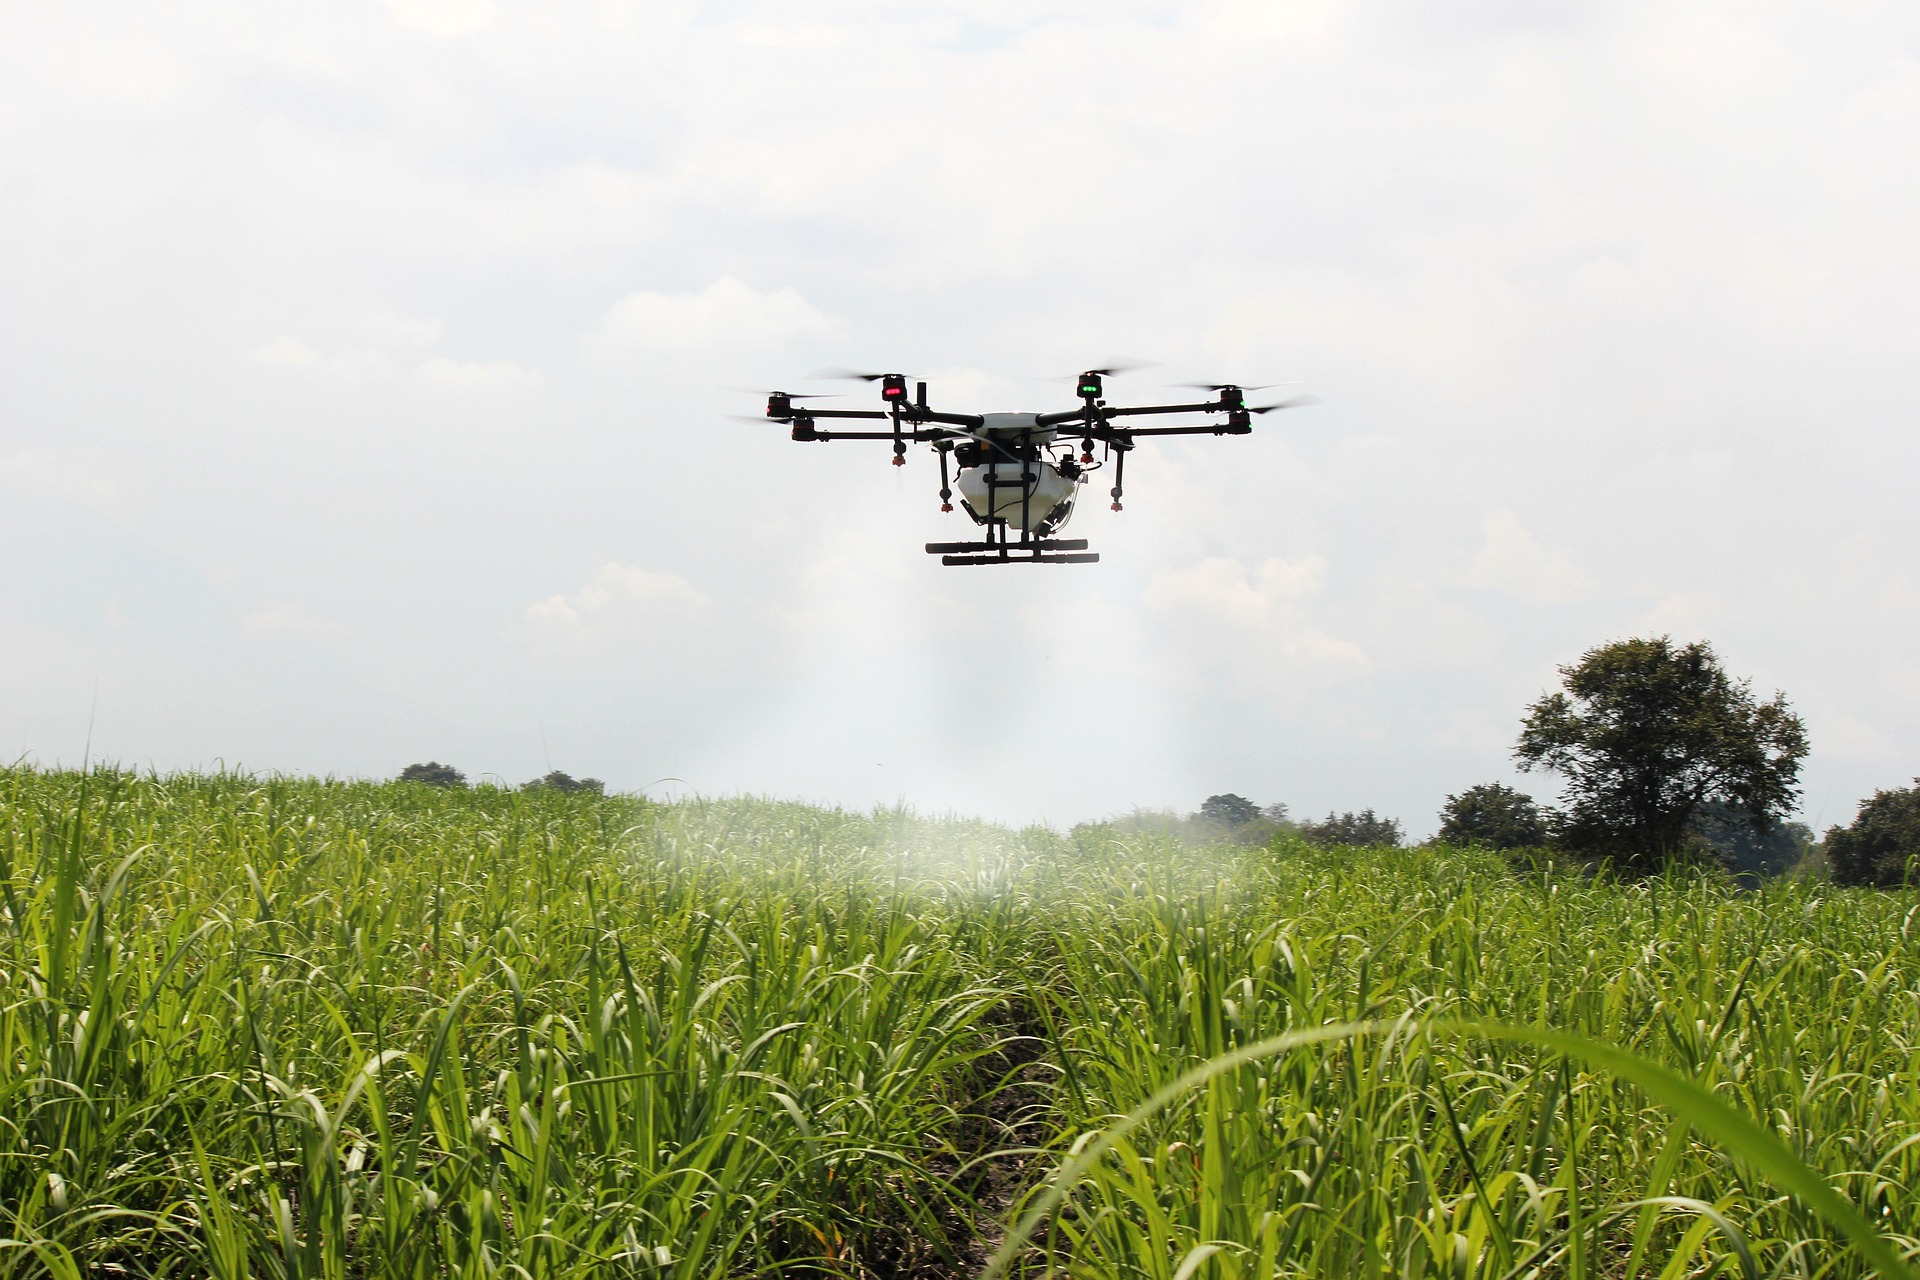
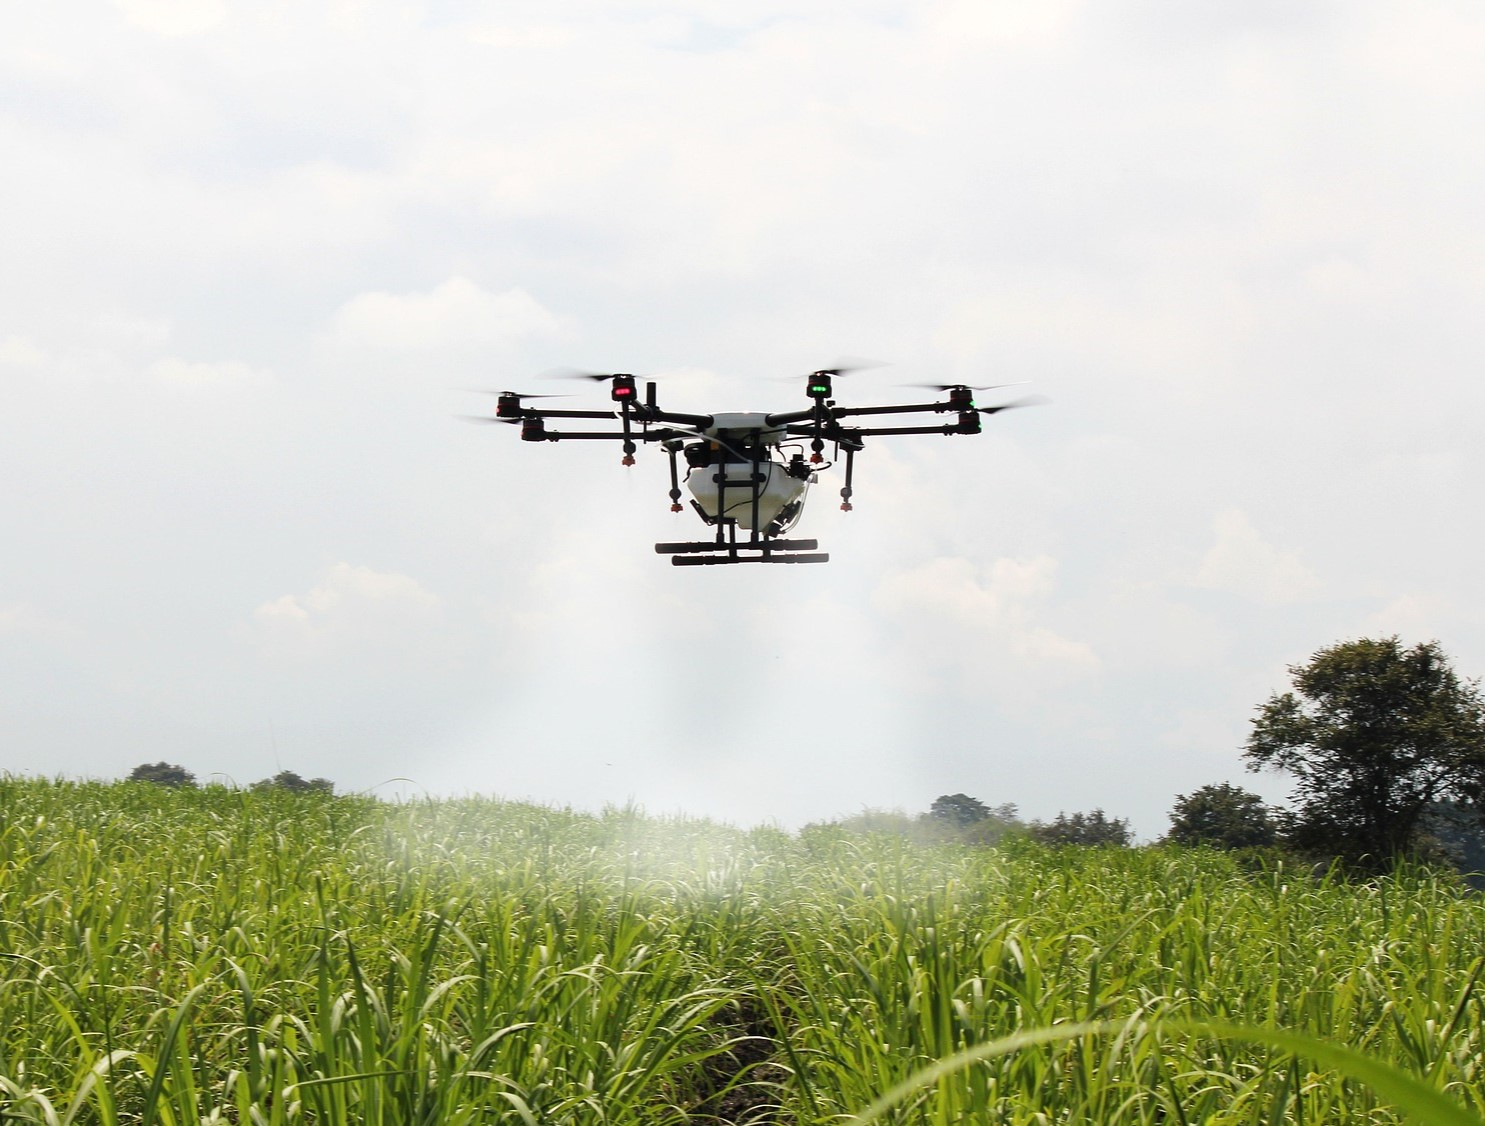
Actualización sobre nosotros e integración de imagenes

diff --git a/docs/index.html b/docs/index.html
@@ -27,8 +27,8 @@
       </div>-->  
         <a  href="index.html"><img class="logo" src="img/Ecomlogowhite.png" alt="logo"></a>
         <ul>
-        <li><a href="#inicio">Inicio</a></li>
-        <li><a href="#sobre_nosotros">Sobre Nosotros</a></li>
+        <li><a href="#">Inicio</a></li>
+        <li><a href="#sobre_nosotros_tienda">Sobre Nosotros</a></li>
         <li><a href="#tienda">Tienda</a></li>
         <li><a href="#contacto">Contacto</a></li>
         <a href="./inicioSesion.html"><i class="fa-solid fa-user" style="color: #ffffff;"></i></a>
@@ -124,20 +124,7 @@
         <div class="container-box">
 
             <div class="box box1">
-                <img src="img/spraying-sugar-cane-2746350_1920.jpg" alt="">
-                <h2>Agricultura</h2>
-                
-                <div class="container-p">
-                    <p>Brindamos servicios de drones de riego, siendo este nuestro
-                        principal servicio y uno de los mas importantes para la economia 
-                        y progreso de la agricultura en Colombia, con tecnologia de primera</p>
-                </div>
-
-
-            </div>
-
-            <div class="box box2">
-                <img src="img/pexels-amar-preciado-15088946.jpg" alt="">
+              <img src="img/about_us_adventrure.jpg" alt="">
                 <h2>Entretenimiento</h2>
                 <div class="container-p">
                     <p> Podras experimentar nuestros servicios de entretenimiento, por medio de la 
@@ -145,11 +132,25 @@
                         pregunta por nuestro servicio de enseñanza para volar drones
                     </p>
                 </div>
+                
+
+
+            </div>
+
+            <div class="box box2">
+              <img src="img/about_us_agriculture.jpg" alt="">
+              <h2>Agricultura</h2>
+              
+              <div class="container-p">
+                  <p>Brindamos servicios de drones de riego, siendo este nuestro
+                      principal servicio y uno de los mas importantes para la economia 
+                      y progreso de la agricultura en Colombia, con tecnologia de primera</p>
+              </div>
 
             </div>
 
             <div class="box box3">
-                <img src="img/piloto-drones-profesional-o-fotografo-stock.jpg" alt="">
+                <img src="img/about_us_explora.jpg" alt="">
                 <h2>Explora</h2>
                 <div class="container-p">
                     <p>Servicio de alquiler de dron, si cuentas con 

diff --git a/docs/Styles/index.css b/docs/Styles/index.css
@@ -261,22 +261,27 @@ a.button:hover {
 }
 
 /* ESTILOS SOBRE NOSOTROS TIENDA */
+#sobre_nosotros_tienda{
 
+  justify-content:end;
+}
 .title{
   text-align: center;
-  margin-top: 60px;
+  margin-top: 5%;
   letter-spacing: 2px;
 }
 
 .container-box{
   width: 100%;
+  
   display: flex;
   flex-wrap: wrap;
   justify-content: center;
+  
 }
 
 .box{
-  width: 250px;
+  width: 380px;
   height: 500px;
   margin: 10px; 
   padding: 0px;
@@ -291,8 +296,8 @@ a.button:hover {
 }
 
 .box img{
-  height: 70%;
-  width: 100%;
+ width: 100%;
+ height: 70%;
   transition: all 400ms;
   border-radius: 13px;
   border-bottom: 3px solid #4d4b4b;
@@ -313,7 +318,7 @@ a.button:hover {
   left: 0;
   bottom: 0;
   overflow: hidden;
-  padding: 0px 10px;
+  padding: 20px 10px;
   border-radius: 0px 0px 14px 14px;
   text-align: justify;
 }
